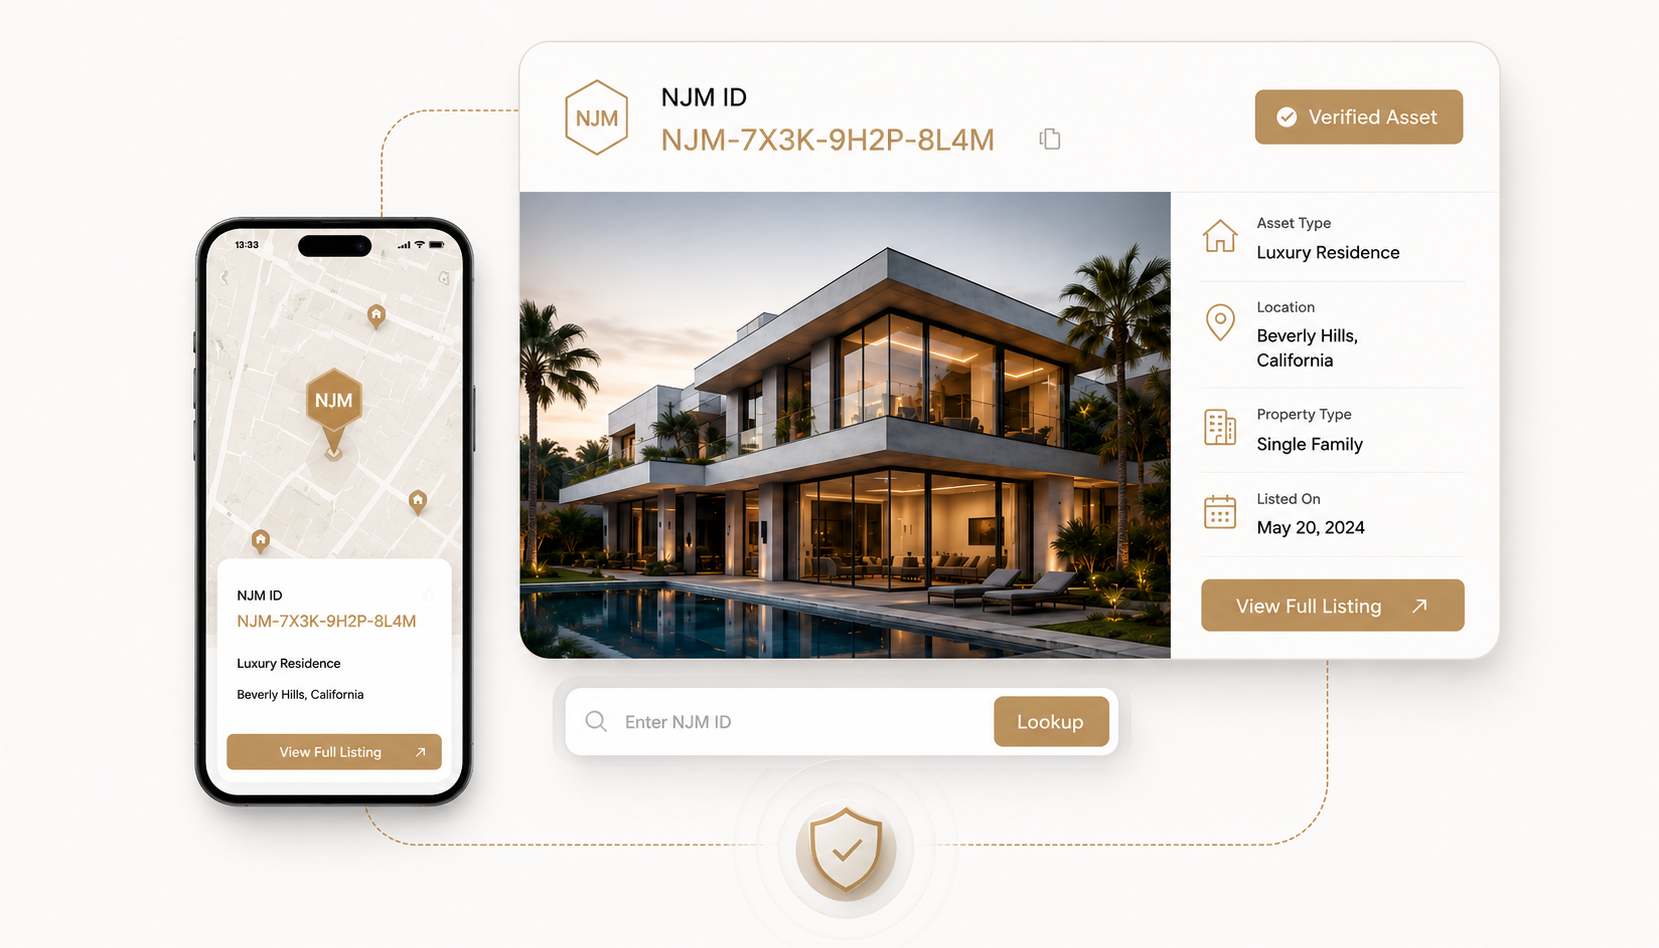
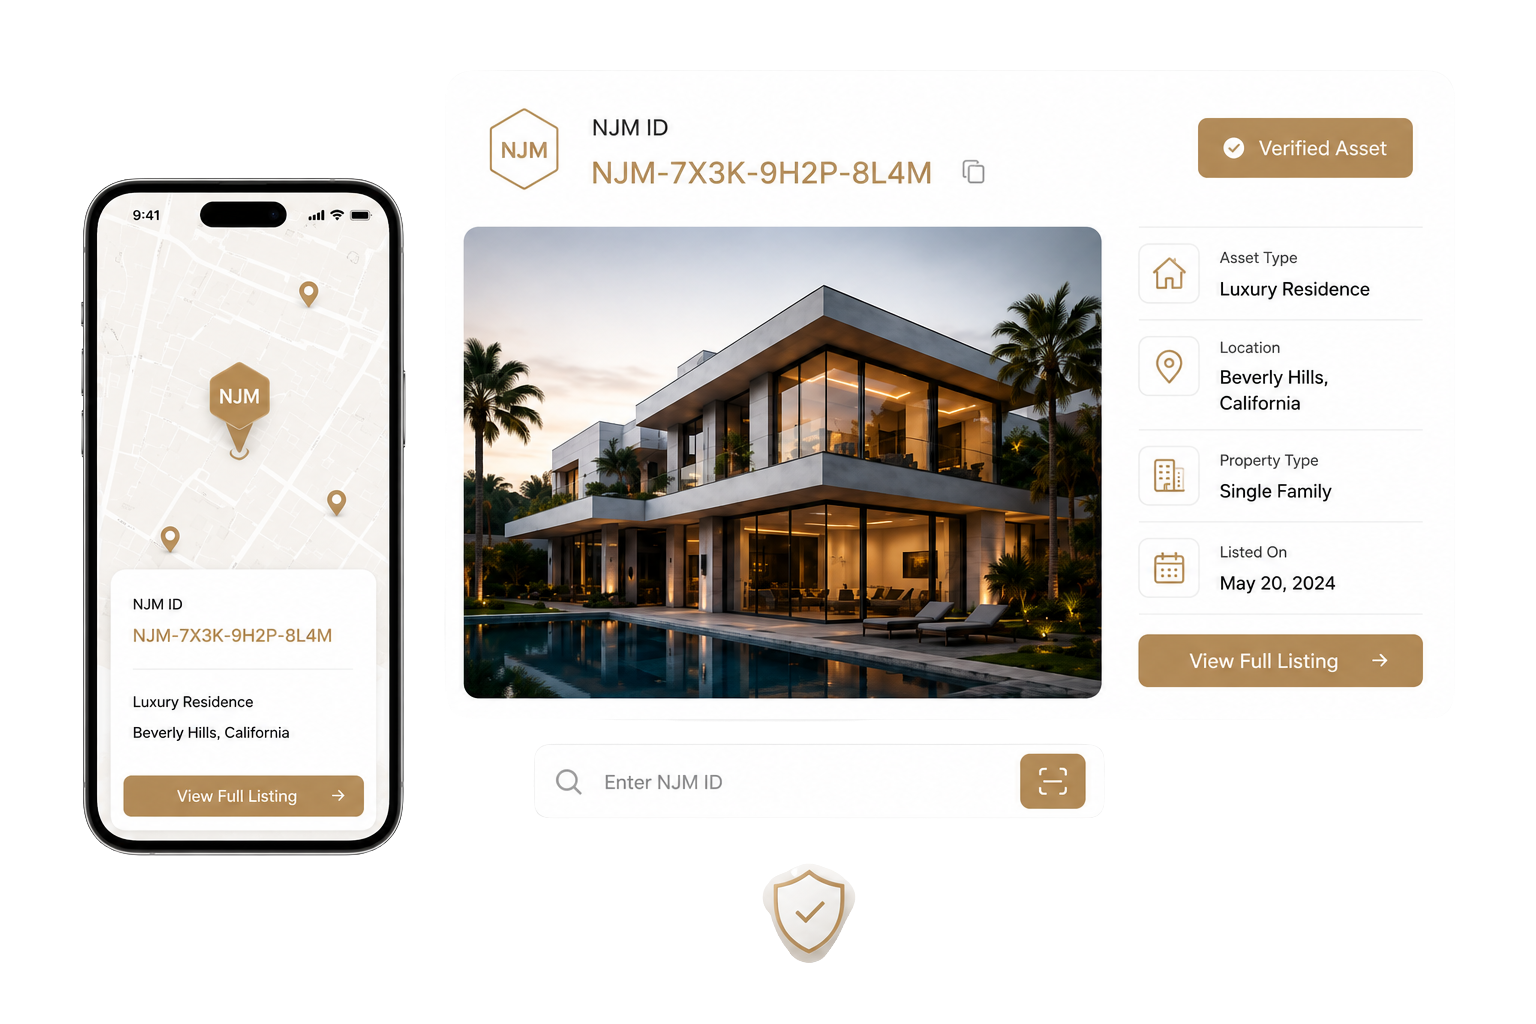
Refactor code structure for improved readability and maintainability

Changed region(s): [[0.0312, 0.0918, 0.9375, 0.8871], [0.4688, 0.8565, 0.5625, 0.9789]]

diff --git a/client/src/pages/SellWithUs.jsx b/client/src/pages/SellWithUs.jsx
@@ -9,14 +9,18 @@ import {
   FaUsers,
   FaBuilding,
   FaMoneyBillWave,
+  FaRegFileAlt,
+  FaTag,
+  FaRegQuestionCircle,
 } from "react-icons/fa";
+import { LuImage } from "react-icons/lu";
 import SellWithUs_Card from "../components/SellWithUs_page/SellWithUs_Card";
 import SellWithUs_Hero from "../components/SellWithUs_page/SellWithUs_Hero";
-import BuyerFlowImage from "../assets/sellwithus_page/buyer_flow.png";
+import BuyerFlowImage from "../assets/sellwithus_page/direct_enquiry.png";
 import OutreachForm from "../assets/sellwithus_page/reach_forms.png";
 import SalesCard from "../assets/sellwithus_page/sales_card.png";
 import Sellemo1 from "../assets/sellwithus_page/sellemo_1.jpeg";
-import Sellemo2 from "../assets/sellwithus_page/sellemo_2.png";
+import Sellemo2 from "../assets/sellwithus_page/vs.png";
 import Sellemo3 from "../assets/sellwithus_page/sellemo_3.png";
 import ChartCard from "../assets/sellwithus_page/chart_card.png";
 import DashboardCard from "../assets/sellwithus_page/dashboard_card.png";
@@ -399,9 +403,9 @@ function Sellwithus() {
       </section>
 
       {/* SELL EMOTIONS VS SECTION */}
-      <section className="w-full bg-white py-2 px-6 md:px-10 lg:px-16 overflow-hidden">
+      <section className="w-full bg-white py-20 px-6 md:px-10 lg:px-16 overflow-hidden">
         {/* TITLE */}
-        <div className="flex flex-col items-center text-center mb-12">
+        <div className="flex flex-col items-center text-center mb-16">
           <h2
             className="text-[40px] md:text-[65px] leading-[1.05] font-light text-black"
             style={{ fontFamily: "serif" }}
@@ -409,44 +413,41 @@ function Sellwithus() {
             Sell Emotions To Buyers{" "}
             <span className="text-black">Not Just Assets</span>
           </h2>
+
+          <p
+            className="mt-6 text-[#D4B06A] text-[22px] md:text-[32px] font-light"
+            style={{ fontFamily: "serif" }}
+          >
+            We believe Every asset has a Soul
+          </p>
         </div>
-        <div className="max-w-[1600px] mx-auto">
-          <div className="grid grid-cols-1 lg:grid-cols-[1fr_auto_1fr] gap-6 lg:gap-9 xl:gap-11 items-center">
-            {/* LEFT IMAGE */}
-            <div className="w-full flex flex-col justify-center">
-              <p
-                className="mt-8 text-[#D4B06A] text-[24px] md:text-[36px] font-light mb-2.5"
-                style={{ fontFamily: "serif" }}
-              >
-                We believe Every asset has a Soul
-              </p>
-              <img
-                src={Sellemo1}
-                alt="Sell Emotions"
-                className="w-full min-w-[750px] object-contain"
-              />
-            </div>
 
-            {/* CENTER VS */}
-            <div className="flex flex-col items-center justify-center">
-              {/* VS Circle */}
-              <div className="w-full h-full flex items-center justify-center ">
-                <img
-                  src={Sellemo2}
-                  alt="VS"
-                  className="min-w-[200px] max-w-[300px] object-contain"
-                />
-              </div>
-            </div>
+        <div className="max-w-[1700px] mx-auto flex flex-col lg:flex-row items-center justify-center gap-5 lg:gap-8 xl:gap-12">
+          {/* LEFT IMAGE */}
+          <div className="w-full lg:w-auto flex justify-center">
+            <img
+              src={Sellemo1}
+              alt="Otulia Way"
+              className="w-full max-w-[950px] object-fit"
+            />
+          </div>
 
-            {/* RIGHT IMAGE */}
-            <div className="flex justify-center">
-              <img
-                src={Sellemo3}
-                alt="Traditional"
-                className="w-full min-w-[300px] max-w-[370px] object-contain"
-              />
-            </div>
+          {/* CENTER VS */}
+          <div className="shrink-0 flex items-center justify-center">
+            <img
+              src={Sellemo2}
+              alt="VS"
+              className="w-30 md:w-46 lg:w-62 object-contain"
+            />
+          </div>
+
+          {/* RIGHT IMAGE */}
+          <div className="w-full lg:w-auto flex justify-center">
+            <img
+              src={Sellemo3}
+              alt="Traditional"
+              className="w-full max-w-[480px] object-fit"
+            />
           </div>
         </div>
       </section>
@@ -503,7 +504,7 @@ function Sellwithus() {
                   <div className="flex items-center justify-center shrink-0">
                     <img
                       src={item.icon}
-                      className="w-14 h-14"
+                      className="w-12 h-12"
                       alt={item.title}
                     />
                   </div>